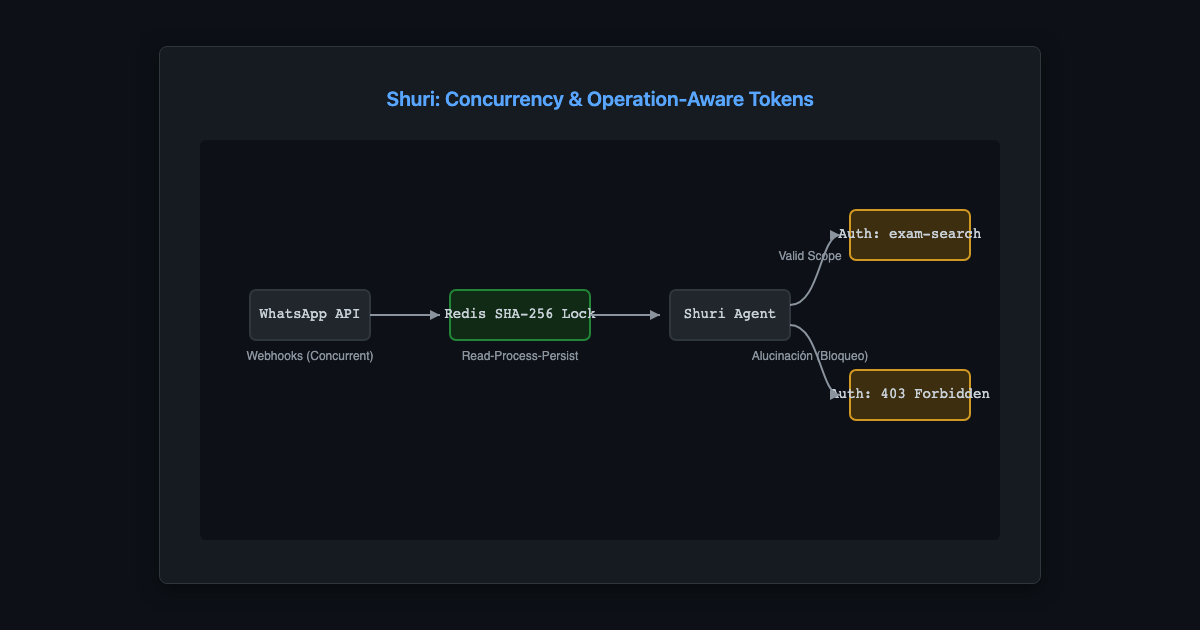
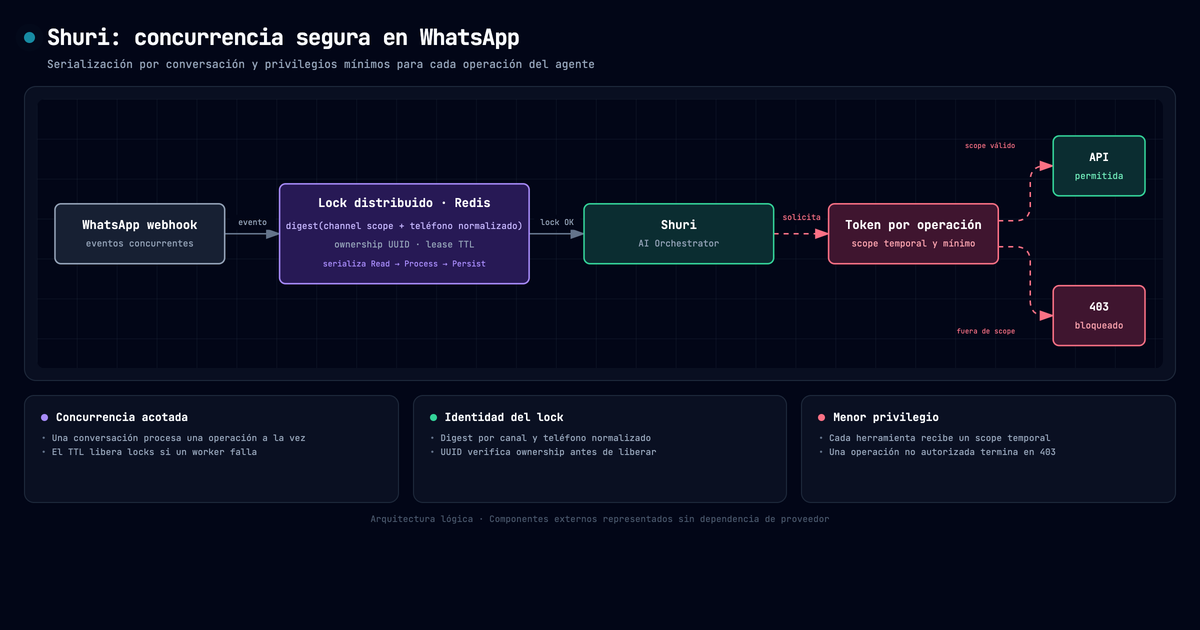
fix(blog): rebuild Shuri architecture diagram

diff --git a/public/img/blog/2026-08-11-shuri-concurrency.html b/public/img/blog/2026-08-11-shuri-concurrency.html
@@ -1,0 +1,222 @@
+<!DOCTYPE html>
+<html lang="es">
+<head>
+  <meta charset="UTF-8">
+  <meta name="viewport" content="width=device-width, initial-scale=1.0">
+  <title>Shuri: concurrencia y autorización por operación</title>
+  <link href="https://fonts.googleapis.com/css2?family=JetBrains+Mono:wght@400;500;600;700&display=swap" rel="stylesheet">
+  <style>
+    * { box-sizing: border-box; margin: 0; padding: 0; }
+
+    body {
+      min-height: 100vh;
+      background: #020617;
+      color: #f8fafc;
+      font-family: "JetBrains Mono", monospace;
+      padding: 24px;
+    }
+
+    .container {
+      width: min(1152px, 100%);
+      margin: 0 auto;
+    }
+
+    .header { margin-bottom: 14px; }
+    .header-row { display: flex; align-items: center; gap: 12px; }
+
+    .pulse-dot {
+      width: 11px;
+      height: 11px;
+      flex: 0 0 auto;
+      border-radius: 50%;
+      background: #22d3ee;
+      box-shadow: 0 0 0 5px rgba(34, 211, 238, 0.1);
+      animation: pulse 2s ease-in-out infinite;
+    }
+
+    @keyframes pulse {
+      0%, 100% { opacity: 1; box-shadow: 0 0 0 5px rgba(34, 211, 238, 0.1); }
+      50% { opacity: 0.55; box-shadow: 0 0 0 9px rgba(34, 211, 238, 0); }
+    }
+
+    h1 {
+      font-size: 22px;
+      font-weight: 700;
+      letter-spacing: -0.035em;
+      line-height: 1.25;
+    }
+
+    .subtitle {
+      margin: 5px 0 0 23px;
+      color: #94a3b8;
+      font-size: 11px;
+      line-height: 1.4;
+    }
+
+    .diagram-container {
+      overflow-x: auto;
+      padding: 12px;
+      border: 1px solid #1e293b;
+      border-radius: 12px;
+      background: rgba(15, 23, 42, 0.52);
+    }
+
+    svg {
+      display: block;
+      width: 100%;
+      min-width: 1060px;
+      height: auto;
+    }
+
+    .cards {
+      display: grid;
+      grid-template-columns: repeat(3, minmax(0, 1fr));
+      gap: 14px;
+      margin-top: 14px;
+    }
+
+    .card {
+      min-height: 108px;
+      padding: 14px 16px;
+      border: 1px solid #1e293b;
+      border-radius: 10px;
+      background: rgba(15, 23, 42, 0.58);
+    }
+
+    .card-header { display: flex; align-items: center; gap: 8px; margin-bottom: 8px; }
+    .card-dot { width: 7px; height: 7px; border-radius: 50%; }
+    .card-dot.violet { background: #a78bfa; }
+    .card-dot.emerald { background: #34d399; }
+    .card-dot.rose { background: #fb7185; }
+    .card h2 { font-size: 11px; font-weight: 600; }
+    .card ul { list-style: none; color: #94a3b8; font-size: 9px; line-height: 1.55; }
+    .card li::before { content: "• "; color: #64748b; }
+
+    .footer {
+      margin-top: 10px;
+      color: #475569;
+      font-size: 9px;
+      text-align: center;
+    }
+
+    @media (max-width: 760px) {
+      body { padding: 16px; }
+      .cards { grid-template-columns: 1fr; }
+      h1 { font-size: 18px; }
+    }
+  </style>
+</head>
+<body>
+  <main class="container">
+    <header class="header">
+      <div class="header-row">
+        <span class="pulse-dot" aria-hidden="true"></span>
+        <h1>Shuri: concurrencia segura en WhatsApp</h1>
+      </div>
+      <p class="subtitle">Serialización por conversación y privilegios mínimos para cada operación del agente</p>
+    </header>
+
+    <section class="diagram-container" aria-label="Arquitectura de concurrencia y autorización de Shuri">
+      <svg viewBox="0 0 1128 270" role="img" aria-labelledby="diagram-title diagram-desc">
+        <title id="diagram-title">Flujo de concurrencia y autorización por operación</title>
+        <desc id="diagram-desc">Un webhook de WhatsApp adquiere un lock distribuido en Redis antes de llegar al orquestador. Shuri solicita un token restringido y la capa de autorización permite la API indicada o responde 403.</desc>
+        <defs>
+          <pattern id="grid" width="40" height="40" patternUnits="userSpaceOnUse">
+            <path d="M 40 0 L 0 0 0 40" fill="none" stroke="#1e293b" stroke-width="0.5"/>
+          </pattern>
+          <marker id="arrowhead" markerWidth="10" markerHeight="7" refX="9" refY="3.5" orient="auto">
+            <polygon points="0 0, 10 3.5, 0 7" fill="#64748b"/>
+          </marker>
+          <marker id="arrowhead-rose" markerWidth="10" markerHeight="7" refX="9" refY="3.5" orient="auto">
+            <polygon points="0 0, 10 3.5, 0 7" fill="#fb7185"/>
+          </marker>
+        </defs>
+
+        <rect width="1128" height="270" rx="8" fill="#020617"/>
+        <rect width="1128" height="270" rx="8" fill="url(#grid)"/>
+
+        <!-- Connections are painted before boxes so nodes remain visually opaque. -->
+        <path d="M 188 135 H 243" fill="none" stroke="#64748b" stroke-width="1.5" marker-end="url(#arrowhead)"/>
+        <path d="M 493 135 H 548" fill="none" stroke="#64748b" stroke-width="1.5" marker-end="url(#arrowhead)"/>
+        <path d="M 738 135 H 793" fill="none" stroke="#fb7185" stroke-width="1.5" stroke-dasharray="5,5" marker-end="url(#arrowhead-rose)"/>
+        <path d="M 963 122 H 980 Q 995 122 995 107 V 82 Q 995 67 1010 67 H 1018" fill="none" stroke="#fb7185" stroke-width="1.5" stroke-dasharray="5,5" marker-end="url(#arrowhead-rose)"/>
+        <path d="M 963 148 H 980 Q 995 148 995 163 V 202 Q 995 217 1010 217 H 1018" fill="none" stroke="#fb7185" stroke-width="1.5" stroke-dasharray="5,5" marker-end="url(#arrowhead-rose)"/>
+
+        <!-- Opaque label masks keep connector text legible. -->
+        <rect x="193" y="116" width="46" height="15" rx="3" fill="#020617"/>
+        <text x="216" y="126" fill="#94a3b8" font-size="8" text-anchor="middle">evento</text>
+        <rect x="498" y="116" width="46" height="15" rx="3" fill="#020617"/>
+        <text x="521" y="126" fill="#94a3b8" font-size="8" text-anchor="middle">lock OK</text>
+        <rect x="743" y="111" width="46" height="15" rx="3" fill="#020617"/>
+        <text x="766" y="121" fill="#fb7185" font-size="8" text-anchor="middle">solicita</text>
+
+        <!-- External webhook -->
+        <rect x="18" y="105" width="170" height="60" rx="6" fill="#0f172a"/>
+        <rect x="18" y="105" width="170" height="60" rx="6" fill="rgba(30, 41, 59, 0.5)" stroke="#94a3b8" stroke-width="1.5"/>
+        <text x="103" y="130" fill="#ffffff" font-size="12" font-weight="600" text-anchor="middle">WhatsApp webhook</text>
+        <text x="103" y="148" fill="#94a3b8" font-size="9" text-anchor="middle">eventos concurrentes</text>
+
+        <!-- Redis lock -->
+        <rect x="243" y="85" width="250" height="100" rx="6" fill="#0f172a"/>
+        <rect x="243" y="85" width="250" height="100" rx="6" fill="rgba(76, 29, 149, 0.4)" stroke="#a78bfa" stroke-width="1.5"/>
+        <text x="368" y="108" fill="#ffffff" font-size="12" font-weight="600" text-anchor="middle">Lock distribuido · Redis</text>
+        <text x="368" y="130" fill="#c4b5fd" font-size="9" text-anchor="middle">digest(channel scope + teléfono normalizado)</text>
+        <text x="368" y="149" fill="#94a3b8" font-size="9" text-anchor="middle">ownership UUID · lease TTL</text>
+        <text x="368" y="168" fill="#a78bfa" font-size="8" text-anchor="middle">serializa Read → Process → Persist</text>
+
+        <!-- AI orchestrator -->
+        <rect x="548" y="105" width="190" height="60" rx="6" fill="#0f172a"/>
+        <rect x="548" y="105" width="190" height="60" rx="6" fill="rgba(6, 78, 59, 0.4)" stroke="#34d399" stroke-width="1.5"/>
+        <text x="643" y="130" fill="#ffffff" font-size="12" font-weight="600" text-anchor="middle">Shuri</text>
+        <text x="643" y="148" fill="#94a3b8" font-size="9" text-anchor="middle">AI Orchestrator</text>
+
+        <!-- Operation-aware security token -->
+        <rect x="793" y="105" width="170" height="60" rx="6" fill="#0f172a"/>
+        <rect x="793" y="105" width="170" height="60" rx="6" fill="rgba(136, 19, 55, 0.4)" stroke="#fb7185" stroke-width="1.5"/>
+        <text x="878" y="130" fill="#ffffff" font-size="12" font-weight="600" text-anchor="middle">Token por operación</text>
+        <text x="878" y="148" fill="#fda4af" font-size="9" text-anchor="middle">scope temporal y mínimo</text>
+
+        <!-- Authorization outcomes -->
+        <rect x="1018" y="37" width="92" height="60" rx="6" fill="#0f172a"/>
+        <rect x="1018" y="37" width="92" height="60" rx="6" fill="rgba(6, 78, 59, 0.4)" stroke="#34d399" stroke-width="1.5"/>
+        <text x="1064" y="62" fill="#ffffff" font-size="11" font-weight="600" text-anchor="middle">API</text>
+        <text x="1064" y="80" fill="#6ee7b7" font-size="9" text-anchor="middle">permitida</text>
+
+        <rect x="1018" y="187" width="92" height="60" rx="6" fill="#0f172a"/>
+        <rect x="1018" y="187" width="92" height="60" rx="6" fill="rgba(136, 19, 55, 0.4)" stroke="#fb7185" stroke-width="1.5"/>
+        <text x="1064" y="212" fill="#ffffff" font-size="11" font-weight="600" text-anchor="middle">403</text>
+        <text x="1064" y="230" fill="#fda4af" font-size="9" text-anchor="middle">bloqueado</text>
+
+        <text x="980" y="49" fill="#fb7185" font-size="7" text-anchor="end">scope válido</text>
+        <text x="980" y="235" fill="#fb7185" font-size="7" text-anchor="end">fuera de scope</text>
+      </svg>
+    </section>
+
+    <section class="cards" aria-label="Resumen de controles">
+      <article class="card">
+        <div class="card-header"><span class="card-dot violet"></span><h2>Concurrencia acotada</h2></div>
+        <ul>
+          <li>Una conversación procesa una operación a la vez</li>
+          <li>El TTL libera locks si un worker falla</li>
+        </ul>
+      </article>
+      <article class="card">
+        <div class="card-header"><span class="card-dot emerald"></span><h2>Identidad del lock</h2></div>
+        <ul>
+          <li>Digest por canal y teléfono normalizado</li>
+          <li>UUID verifica ownership antes de liberar</li>
+        </ul>
+      </article>
+      <article class="card">
+        <div class="card-header"><span class="card-dot rose"></span><h2>Menor privilegio</h2></div>
+        <ul>
+          <li>Cada herramienta recibe un scope temporal</li>
+          <li>Una operación no autorizada termina en 403</li>
+        </ul>
+      </article>
+    </section>
+
+    <footer class="footer">Arquitectura lógica · Componentes externos representados sin dependencia de proveedor</footer>
+  </main>
+</body>
+</html>
